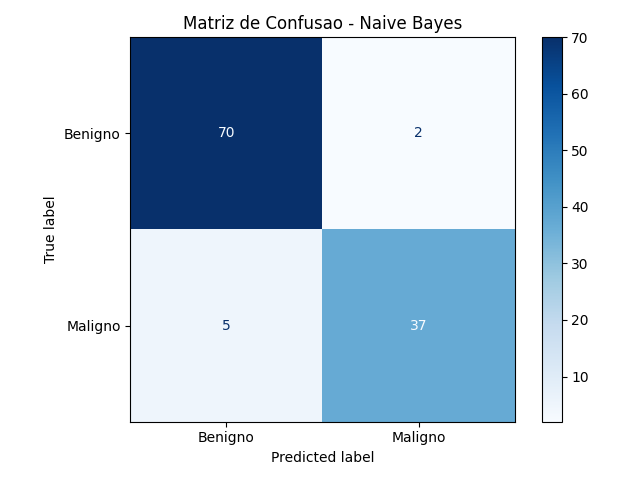
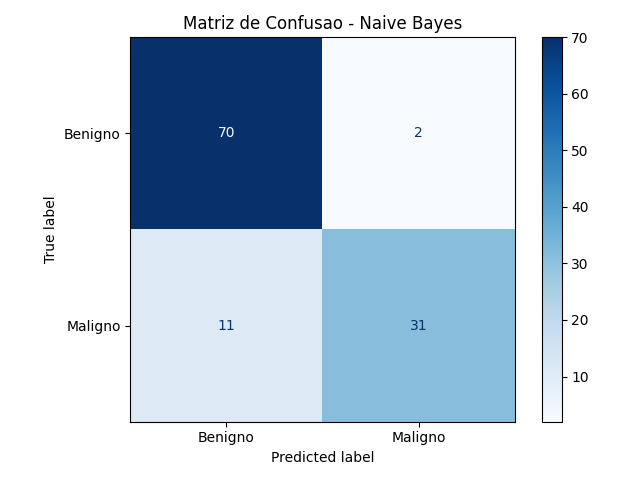
Usa as 8 variaveis preditoras end-to-end e adiciona distribuicoes
- app.py: adiciona rotulos de raio_media e area_media (formulario com 8 campos)
- 02_treinar_modelo.py: retreina o GaussianNB com as 8 features; regenera
  modelo_naive_bayes.joblib e imagens/matriz_confusao.png
- README.md: atualiza selecao de features (8, por R2), metricas do teste
  (acuracia ~88,6%) e porta da app (5050)
- 04_distribuicoes_features.py: histogramas por classe (Benigno x Maligno)
  das 8 features, salvos em imagens/distribuicao_*.png

Changed region(s): [[0.5, 0.4688, 0.8125, 0.9062], [0.3438, 0.6562, 0.375, 0.6875]]

diff --git a/04_distribuicoes_features.py b/04_distribuicoes_features.py
@@ -1,0 +1,72 @@
+# -*- coding: utf-8 -*-
+"""
+04_distribuicoes_features.py
+----------------------------
+Gera a DISTRIBUICAO (histograma) de cada uma das 8 variaveis usadas no
+modelo, considerando todos os pacientes juntos (sem separar por classe e
+sem linha de media).
+
+Salva um arquivo PNG por variavel na pasta "imagens".
+"""
+
+import os
+import pandas as pd
+import matplotlib
+matplotlib.use("Agg")
+import matplotlib.pyplot as plt
+
+# ---------------------------------------------------------------------------
+# 1) CARREGAR A BASE
+# ---------------------------------------------------------------------------
+medidas = [
+    "raio", "textura", "perimetro", "area", "suavidade",
+    "compacidade", "concavidade", "pontos_concavos", "simetria", "dimensao_fractal",
+]
+colunas = ["id", "diagnostico"]
+for sufixo in ["media", "se", "pior"]:
+    for m in medidas:
+        colunas.append(f"{m}_{sufixo}")
+
+CAMINHO_DADOS = os.path.join("breast+cancer+wisconsin+diagnostic", "wdbc.data")
+df = pd.read_csv(CAMINHO_DADOS, header=None, names=colunas)
+
+# As 8 variaveis escolhidas (mesmas do modelo).
+FEATURES = [
+    "pontos_concavos_pior",
+    "perimetro_pior",
+    "pontos_concavos_media",
+    "raio_pior",
+    "perimetro_media",
+    "area_pior",
+    "raio_media",
+    "area_media",
+]
+
+# ---------------------------------------------------------------------------
+# 2) UM HISTOGRAMA POR VARIAVEL, SEPARADO POR CLASSE (Benigno x Maligno)
+# ---------------------------------------------------------------------------
+os.makedirs("imagens", exist_ok=True)
+
+for var in FEATURES:
+    print("=" * 60)
+    print(f"DISTRIBUICAO DE '{var}' POR DIAGNOSTICO")
+    print("=" * 60)
+    print(df.groupby("diagnostico")[var].describe().round(4))
+
+    benigno = df.loc[df["diagnostico"] == "B", var]
+    maligno = df.loc[df["diagnostico"] == "M", var]
+
+    plt.figure(figsize=(9, 5))
+    plt.hist(benigno, bins=30, alpha=0.6, label="Benigno",
+             color="#2e86de", edgecolor="white")
+    plt.hist(maligno, bins=30, alpha=0.6, label="Maligno",
+             color="#e74c3c", edgecolor="white")
+    plt.title(f"Distribuicao de '{var}' por diagnostico")
+    plt.xlabel(var)
+    plt.ylabel("Frequencia (numero de pacientes)")
+    plt.legend()
+    plt.tight_layout()
+    saida = os.path.join("imagens", f"distribuicao_{var}.png")
+    plt.savefig(saida, dpi=120)
+    plt.close()
+    print(f"Grafico salvo em '{saida}'.\n")

diff --git a/02_treinar_modelo.py b/02_treinar_modelo.py
@@ -47,25 +47,29 @@ df = pd.read_csv(CAMINHO_DADOS, header=None, names=colunas)
 # 2) SELECIONAR AS VARIAVEIS PREDITORAS (FEATURES)
 # ---------------------------------------------------------------------------
 # A base tem 30 variaveis. Para o modelo ficar simples e o formulario da
-# aplicacao web nao ficar gigante, escolhemos 6 variaveis.
+# aplicacao web nao ficar gigante, escolhemos 8 variaveis.
 #
-# JUSTIFICATIVA: na analise exploratoria (arquivo 01), calculamos a correlacao
-# de cada variavel com o diagnostico. Quanto mais perto de 1, melhor a variavel
-# separa Benigno de Maligno. Escolhemos as 6 variaveis com MAIOR correlacao:
+# JUSTIFICATIVA: calculamos o R2 (eta-quadrado) de cada variavel com o
+# diagnostico (ver r2_features.py). Quanto mais perto de 1, melhor a variavel
+# separa Benigno de Maligno. Escolhemos as 8 variaveis com MAIOR R2:
 #
-#   1. pontos_concavos_pior   -> 0.794
-#   2. perimetro_pior         -> 0.783
-#   3. pontos_concavos_media  -> 0.777
-#   4. raio_pior              -> 0.776
-#   5. perimetro_media        -> 0.743
-#   6. area_pior              -> 0.734
+#   1. pontos_concavos_pior   -> 0.629747
+#   2. perimetro_pior         -> 0.612955
+#   3. pontos_concavos_media  -> 0.603129
+#   4. raio_pior              -> 0.602880
+#   5. perimetro_media        -> 0.551508
+#   6. area_pior              -> 0.538499
+#   7. raio_media             -> 0.532942
+#   8. area_media             -> 0.502658
 FEATURES = [
-    "pontos_concavos_pior",   # correlacao 0.794
-    "perimetro_pior",         # correlacao 0.783
-    "pontos_concavos_media",  # correlacao 0.777
-    "raio_pior",              # correlacao 0.776
-    "perimetro_media",        # correlacao 0.743
-    "area_pior",              # correlacao 0.734
+    "pontos_concavos_pior",   # R2 0.629747
+    "perimetro_pior",         # R2 0.612955
+    "pontos_concavos_media",  # R2 0.603129
+    "raio_pior",              # R2 0.602880
+    "perimetro_media",        # R2 0.551508
+    "area_pior",              # R2 0.538499
+    "raio_media",             # R2 0.532942
+    "area_media",             # R2 0.502658
 ]
 
 X = df[FEATURES]                              # variaveis de entrada

diff --git a/01_analise_exploratoria.py b/01_analise_exploratoria.py
@@ -79,7 +79,6 @@ print(f"\nBenigno: {contagem.get('B', 0)} "
       f"({100*contagem.get('B', 0)/total:.1f}%)")
 print(f"Maligno: {contagem.get('M', 0)} "
       f"({100*contagem.get('M', 0)/total:.1f}%)")
-print("A base e razoavelmente equilibrada (nao ha classe muito rara).")
 
 # ---------------------------------------------------------------------------
 # 4) ASSOCIACAO COM O DIAGNOSTICO (R2 / ETA-QUADRADO)

diff --git a/app.py b/app.py
@@ -34,6 +34,8 @@ CAMPOS = {
     "raio_pior":             "Raio (pior)",
     "perimetro_media":       "Perimetro (media)",
     "area_pior":             "Area (pior)",
+    "raio_media":            "Raio (media)",
+    "area_media":            "Area (media)",
 }
 
 

diff --git a/README.md b/README.md
@@ -48,7 +48,7 @@ Treina o Naive Bayes, mostra o desempenho e cria o arquivo
 ```bash
 python app.py
 ```
-Depois abra no navegador: **http://127.0.0.1:5000**
+Depois abra no navegador: **http://127.0.0.1:5050**
 Preencha o formulário e clique em **Prever**.
 
 ---
@@ -70,18 +70,20 @@ Preencha o formulário e clique em **Prever**.
 
 ## 4. Seleção das variáveis (features)
 
-Das 30 variáveis, escolhemos as **6 com maior correlação com o diagnóstico**
-(calculada na análise exploratória). Quanto mais perto de 1, melhor a
-variável separa Benigno de Maligno:
+Das 30 variáveis, escolhemos as **8 com maior R² (eta-quadrado) com o
+diagnóstico** (calculado em `r2_features.py`). Quanto mais perto de 1,
+melhor a variável separa Benigno de Maligno:
 
-| Variável | Correlação |
+| Variável | R² |
 |---|---|
-| `pontos_concavos_pior` | 0,794 |
-| `perimetro_pior` | 0,783 |
-| `pontos_concavos_media` | 0,777 |
-| `raio_pior` | 0,776 |
-| `perimetro_media` | 0,743 |
-| `area_pior` | 0,734 |
+| `pontos_concavos_pior` | 0,630 |
+| `perimetro_pior` | 0,613 |
+| `pontos_concavos_media` | 0,603 |
+| `raio_pior` | 0,603 |
+| `perimetro_media` | 0,552 |
+| `area_pior` | 0,538 |
+| `raio_media` | 0,533 |
+| `area_media` | 0,503 |
 
 Usar poucas variáveis bem escolhidas mantém o modelo simples, deixa o
 formulário da web pequeno e ainda assim alcança ótimo desempenho.
@@ -111,10 +113,10 @@ Resultados no conjunto de teste (114 pacientes):
 
 | Métrica | Valor |
 |---|---|
-| Acurácia | ~93,9% |
-| Precisão | ~0,95 |
-| Recall | ~0,88 |
-| F1-Score | ~0,91 |
+| Acurácia | ~88,6% |
+| Precisão | ~0,94 |
+| Recall | ~0,74 |
+| F1-Score | ~0,83 |
 
 A **matriz de confusão** é salva em `imagens/matriz_confusao.png`.
 
@@ -123,12 +125,10 @@ A **matriz de confusão** é salva em `imagens/matriz_confusao.png`.
 ## 7. Fluxo da aplicação
 
 1. O usuário acessa a página.
-2. Preenche as 6 medidas no formulário.
+2. Preenche as 8 medidas no formulário.
 3. Clica em **Prever**.
 4. O back-end (Flask) recebe os dados e carrega o modelo salvo.
 5. O modelo Naive Bayes faz a previsão.
 6. A página mostra **Tumor Benigno** ou **Tumor Maligno**, com a
    probabilidade (confiança) associada.
 
-> Observação: este projeto é educacional e **não** substitui um
-> diagnóstico médico real.
